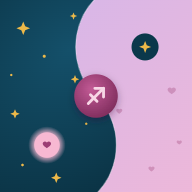
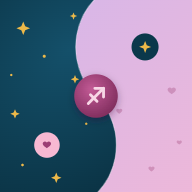
0.1.94: іконка без світіння навколо рожевої точки

Changed region(s): [[0.125, 0.6562, 0.3438, 0.875]]

diff --git a/js/version.js b/js/version.js
@@ -1,5 +1,5 @@
 // Версія і «Что нового»: при кожному випуску — новий рядок угорі й новий VERSION
-export const VERSION = '0.1.93';
+export const VERSION = '0.1.94';
 
 export const NEWS = [
   ['0.1.93', 'Иконка — чистый инь-янь двух половин: ночь со звёздами и пудра с сердечками, в каждой — точка другой, Стрелец посередине.'],
